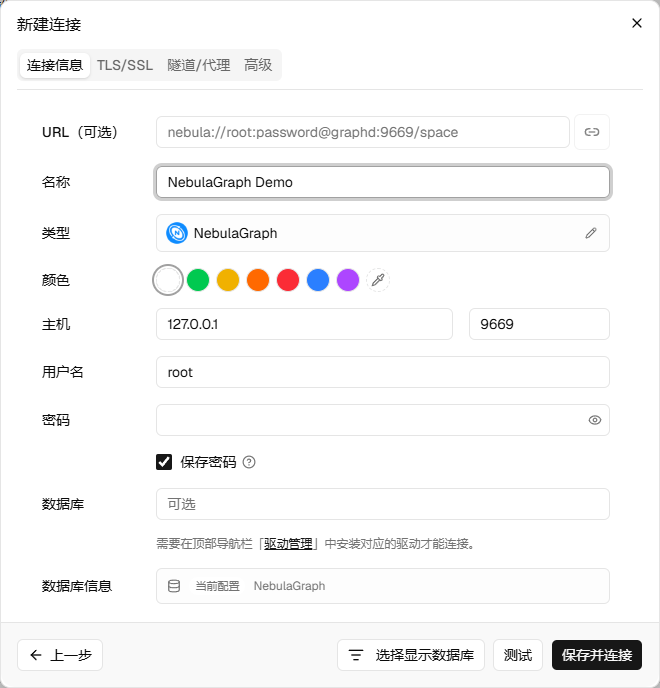
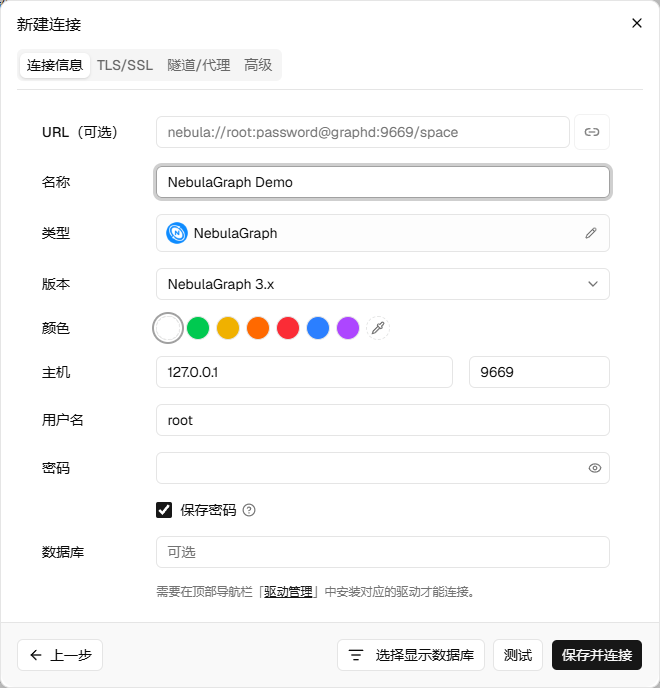
feat(nebula): define v3 driver profile

diff --git a/apps/desktop/src/components/connection/ConnectionDialog.vue b/apps/desktop/src/components/connection/ConnectionDialog.vue
@@ -150,7 +150,7 @@ import { buildDraftVisibleDatabasesConnectionId, connectionCanChooseVisibleDatab
 import { canSaveVisibleDatabaseSelection, connectionUsesVisibleSchemaFilter, filterDatabaseNamesForVisiblePicker, filterSchemaNamesForVisiblePicker, normalizeVisibleDatabaseSelection, buildDraftVisibleSchemasConnectionId, normalizeVisibleSchemaSelection } from "@/lib/database/visibleDatabases";
 import { isSchemaAware, isSingleDatabase, supportsDataDictionary } from "@/lib/database/databaseFeatureSupport";
 import { normalizeConnectionScope, normalizeConnectionTimeouts } from "@/lib/connection/connectionSubmitNormalization";
-import { databaseConnectionFormKind } from "@/lib/database/databaseDriverManifest";
+import { databaseConnectionFormKind, databaseManifestEntry } from "@/lib/database/databaseDriverManifest";
 import VisibleSchemasDialog from "@/components/sidebar/VisibleSchemasDialog.vue";
 import CloudflareD1ConnectionFields from "@/components/connection/CloudflareD1ConnectionFields.vue";
 import SpannerConnectionFields from "@/components/connection/SpannerConnectionFields.vue";
@@ -1183,6 +1183,8 @@ const driverProfiles: Record<string, ConnectionProfileDefinition> = {
   ...CONNECTION_PROFILES,
   ...jdbcProductDriverProfiles(),
 };
+const nebulaDriverProfiles = databaseManifestEntry("nebula")?.driverProfiles ?? [];
+const nebulaDefaultDriverProfile = nebulaDriverProfiles[0]?.profile ?? "nebula";
 
 function profileForConfig(config: ConnectionConfig) {
   if (config.db_type === "plugin" && config.plugin_id && config.plugin_connection_provider) {
@@ -2803,7 +2805,7 @@ function applyProfile(val: string, preserveConnectionFields = false) {
   const previousDatabaseType = form.value.db_type;
   selectedType.value = val;
   form.value.db_type = profile.type;
-  form.value.driver_profile = val;
+  form.value.driver_profile = val === "nebula" ? nebulaDefaultDriverProfile : val;
   form.value.driver_label = isCustomCompatibleProfile() ? customDriverName.value.trim() || profile.label : profile.label;
   const preserveMeilisearchConfig = preserveConnectionFields && previousDatabaseType === "meilisearch" && profile.type === "meilisearch";
   if (profile.type !== "sqlserver" && !preserveMeilisearchConfig) {
@@ -3429,6 +3431,12 @@ function switchH2ConnectionMode(mode: H2ConnectionMode) {
 }
 
 function switchEtcdApiVersion(profile: "etcd" | "etcd-v2") {
+  form.value.driver_profile = profile;
+  resetTestState();
+}
+
+function switchNebulaDriverProfile(profile: unknown) {
+  if (typeof profile !== "string" || !nebulaDriverProfiles.some((entry) => entry.profile === profile)) return;
   form.value.driver_profile = profile;
   resetTestState();
 }
@@ -4627,6 +4635,9 @@ function connectionConfigForSubmit(id: string, generatedName = "", validatePlugi
     config.production_databases = [];
   } else {
     config = { ...formValueForSubmit(), id } as LegacyConnectionConfig;
+  }
+  if (config.db_type === "nebula" && (!config.driver_profile || config.driver_profile === "nebula")) {
+    config.driver_profile = nebulaDefaultDriverProfile;
   }
   config.database_info = undefined;
   config.database = normalizeStoredConnectionDatabase(config.db_type, config.database);
@@ -7016,6 +7027,20 @@ function openExternalUrl(url: string) {
                     <span class="min-w-0 flex-1 truncate text-sm text-left">{{ selectedProfile().label }}</span>
                     <Pencil class="h-3 w-3 text-muted-foreground" />
                   </button>
+                </div>
+
+                <div v-if="form.db_type === 'nebula'" class="grid grid-cols-4 items-center gap-4">
+                  <Label :class="connectionLabelClass">{{ t("connection.version") }}</Label>
+                  <div class="col-span-3">
+                    <Select :model-value="form.driver_profile === 'nebula' ? nebulaDefaultDriverProfile : form.driver_profile" @update:model-value="switchNebulaDriverProfile">
+                      <SelectTrigger class="w-full">
+                        <SelectValue />
+                      </SelectTrigger>
+                      <SelectContent>
+                        <SelectItem v-for="profile in nebulaDriverProfiles" :key="profile.profile" :value="profile.profile">{{ profile.label }}</SelectItem>
+                      </SelectContent>
+                    </Select>
+                  </div>
                 </div>
 
                 <!-- OceanBase mode toggle -->

diff --git a/apps/desktop/src/lib/connection/agentDriverInstallHint.ts b/apps/desktop/src/lib/connection/agentDriverInstallHint.ts
@@ -1,5 +1,6 @@
 import type { DatabaseType } from "@/types/database";
 import { supportsDriverManagement } from "@/lib/database/databaseCapabilities";
+import { databaseManifestEntry } from "@/lib/database/databaseDriverManifest";
 
 export interface AgentDriverInstallState {
   db_type: string;
@@ -38,6 +39,10 @@ export function agentDriverInstallKey(dbType: DatabaseType | undefined, driverPr
   if (dbType === "oracle") return "oracle";
   if (dbType === "h2") return "h2";
   if (dbType === "transwarp") return "transwarp";
+  if (dbType === "nebula") {
+    const entry = databaseManifestEntry(dbType);
+    return entry?.driverProfiles?.find((profile) => profile.profile === driverProfile)?.agentKey ?? entry?.agentKey;
+  }
   if (dbType === "mongodb") return "mongodb";
   if (dbType === "dameng") return "dameng";
   if (dbType === "gbase") return driverProfile === "gbase8s" ? "gbase8s" : "gbase8a";

diff --git a/apps/desktop/src/lib/connection/__tests__/agentDriverInstallHint.spec.ts b/apps/desktop/src/lib/connection/__tests__/agentDriverInstallHint.spec.ts
@@ -38,6 +38,15 @@ describe("Transwarp driver installation", () => {
   });
 });
 
+describe("NebulaGraph driver installation", () => {
+  it("routes the v3 profile and legacy connections to the same Agent package", () => {
+    for (const profile of [undefined, "nebula", "nebula-v3"]) {
+      expect(agentDriverInstallKey("nebula", profile)).toBe("nebula");
+      expect(showAgentDriverInstallHint("nebula", [{ db_type: "nebula", installed: true }], profile)).toBe(false);
+    }
+  });
+});
+
 describe("shouldApplyDriverStoreFocus", () => {
   it("applies when the driver first appears after a list load", () => {
     expect(shouldApplyDriverStoreFocus(null, "driver:mysql", false)).toBe(true);

diff --git a/apps/desktop/src/lib/__tests__/database/databaseDriverManifest.spec.ts b/apps/desktop/src/lib/__tests__/database/databaseDriverManifest.spec.ts
@@ -37,6 +37,10 @@ describe("databaseDriverManifest", () => {
     });
   });
 
+  it("offers only the supported NebulaGraph 3.x profile", () => {
+    expect(databaseManifestEntry("nebula")?.driverProfiles).toEqual([{ profile: "nebula-v3", agentKey: "nebula", label: "NebulaGraph 3.x", storeVisible: false }]);
+  });
+
   it("routes only specialized connection forms explicitly", () => {
     expect(databaseConnectionFormKind("mysql")).toBe("standard");
     expect(databaseConnectionFormKind("jdbc")).toBe("jdbc");

diff --git a/agents/drivers/nebula-go/main_test.go b/agents/drivers/nebula-go/main_test.go
@@ -44,6 +44,19 @@ func TestHandshakeMatchesAgentProtocol(t *testing.T) {
 	}
 }
 
+func TestDriverProfileSupportsV3AndLegacyConnections(t *testing.T) {
+	for _, profile := range []string{"", "nebula", "nebula-v3"} {
+		_, err := newAgentSession(connectParams{DriverProfile: profile})
+		if err == nil || !strings.Contains(err.Error(), "graphd host is required") {
+			t.Fatalf("profile %q unexpectedly rejected: %v", profile, err)
+		}
+	}
+	_, err := newAgentSession(connectParams{DriverProfile: "nebula-v5"})
+	if err == nil || !strings.Contains(err.Error(), "only NebulaGraph 3.x is supported") {
+		t.Fatalf("unsupported profile was not rejected: %v", err)
+	}
+}
+
 func TestMissingSessionReturnsValidErrorContract(t *testing.T) {
 	runtime := &runtimeServer{sessions: make(map[string]*agentSession)}
 	response := runtime.handleLine(`{"jsonrpc":"2.0","id":7,"method":"execute_query","params":{"agentSessionId":"missing","sql":"SHOW SPACES"}}`)

diff --git a/agents/drivers/nebula-go/main.go b/agents/drivers/nebula-go/main.go
@@ -33,6 +33,7 @@ type response struct {
 }
 
 type connectParams struct {
+	DriverProfile      string `json:"driver_profile"`
 	Host               string `json:"host"`
 	Port               int    `json:"port"`
 	Database           string `json:"database"`
@@ -216,6 +217,9 @@ func (r *runtimeServer) openSession(id string, options connectParams) error {
 }
 
 func newAgentSession(options connectParams) (*agentSession, error) {
+	if options.DriverProfile != "" && !strings.EqualFold(options.DriverProfile, "nebula") && !strings.EqualFold(options.DriverProfile, "nebula-v3") {
+		return nil, fmt.Errorf("unsupported NebulaGraph driver profile %q; only NebulaGraph 3.x is supported", options.DriverProfile)
+	}
 	if strings.TrimSpace(options.Host) == "" {
 		return nil, errors.New("NebulaGraph graphd host is required")
 	}

diff --git a/crates/dbx-driver-agent/src/agent_catalog.rs b/crates/dbx-driver-agent/src/agent_catalog.rs
@@ -83,6 +83,15 @@ mod tests {
     }
 
     #[test]
+    fn nebula_v3_profile_reuses_the_legacy_agent_package() {
+        for profile in [None, Some("nebula"), Some("nebula-v3")] {
+            assert_eq!(agent_key(&DatabaseType::Nebula, profile), Some("nebula"));
+        }
+        assert_eq!(driver_store_entries().filter(|(key, _)| *key == "nebula").count(), 1);
+        assert!(!driver_store_entries().any(|(key, _)| key == "nebula-v3"));
+    }
+
+    #[test]
     fn h2_profiles_share_the_same_agent() {
         assert_eq!(agent_key(&DatabaseType::H2, None), Some("h2"));
         assert_eq!(agent_key(&DatabaseType::H2, Some("h2")), Some("h2"));
